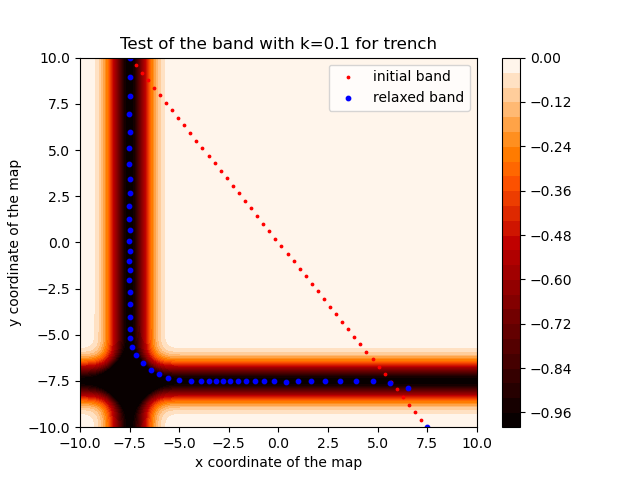
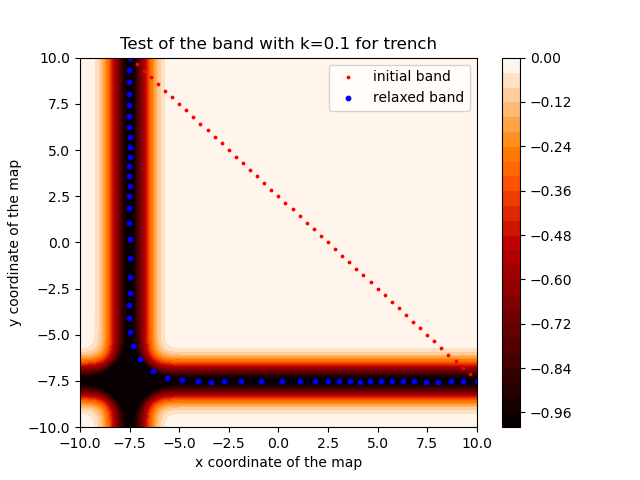
Fixed trench start

diff --git a/params.py b/params.py
@@ -20,7 +20,7 @@ class params:
     N_band              =       50
 
     
-    p_init              =       (7.5,-10)
+    p_init              =       (10,-7.5)
     p_final             =       (-7.5,10)
 
     k                   =       0.1    
